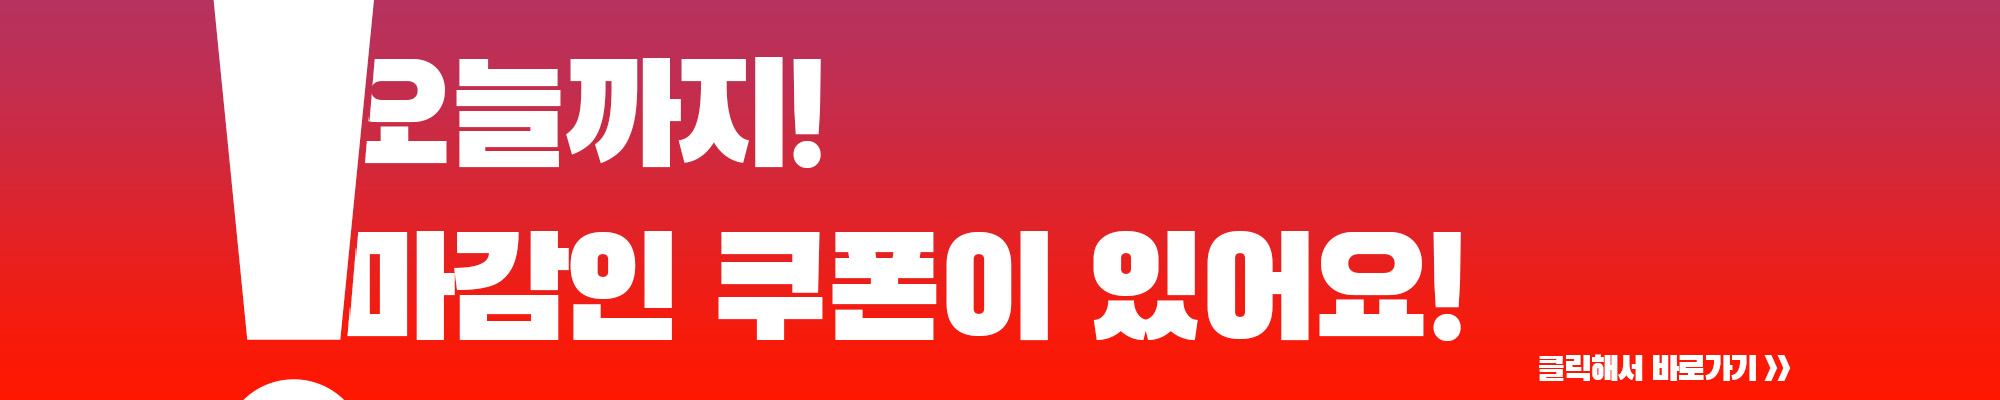
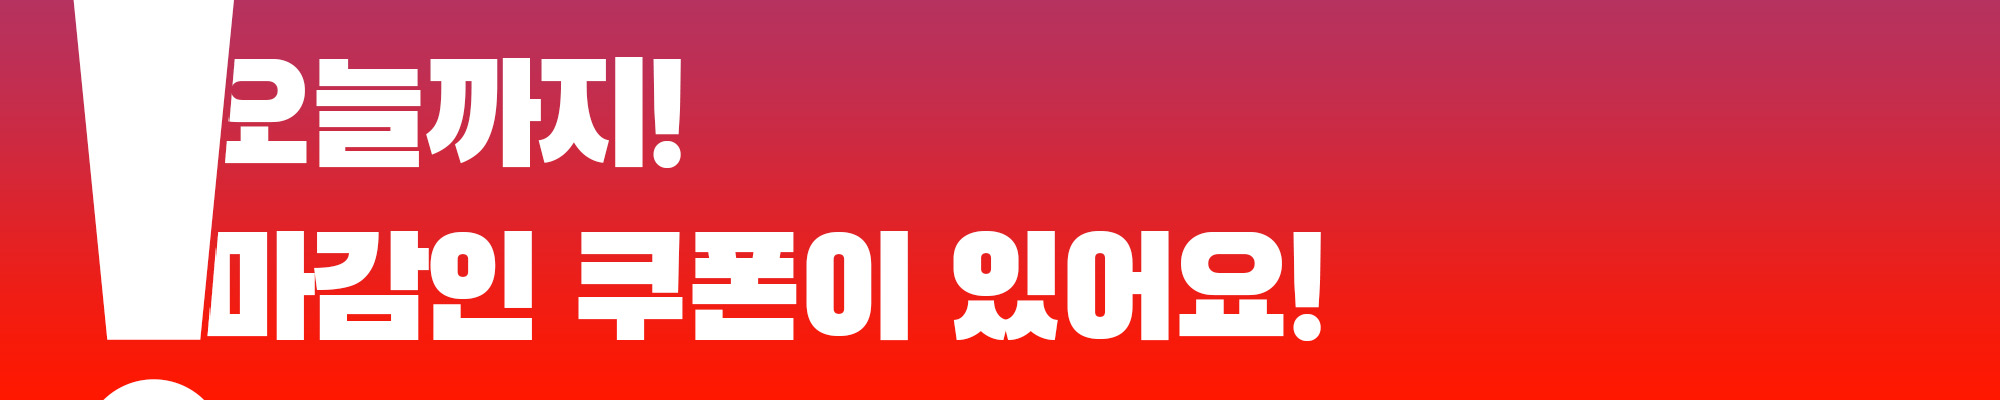
update

Changed region(s): [[0.031, 0.0, 0.744, 0.87], [0.744, 0.87, 0.899, 0.96], [0.031, 0.93, 0.186, 1.0]]

diff --git a/css/main.css b/css/main.css
@@ -1,4 +1,5 @@
 @import url('https://fonts.googleapis.com/css2?family=Noto+Sans+KR:wght@100;300;400;500;700;900&display=swap');
+@import url('https://fonts.googleapis.com/css2?family=Black+Han+Sans&display=swap');
 
 body {
     padding: 0;
@@ -68,6 +69,7 @@ svg:nth-child(1) {
 
 .ad,
 .deadline {
+    display: none;
     overflow: hidden;
     position: relative;
     margin: 20px auto;
@@ -87,6 +89,18 @@ svg:nth-child(1) {
     color: #fff;
     font-size: 15px;
     line-height: 15px;
+    box-sizing: border-box;
+}
+
+.deadline:after {
+    content: "바로가기>>";
+    position: absolute;
+    right: 5%;
+    bottom: 0;
+    color: #fff;
+    font-family: 'Black Han Sans', sans-serif;
+    font-size: 20px;
+    line-height: 20px;
     box-sizing: border-box;
 }
 
@@ -208,18 +222,22 @@ svg:nth-child(1) {
     z-index: 1000;
 }
 
+.coupon div button.today {
+    margin: 15px 0 10px 0;
+}
+
 .coupon div button.today:after {
     content: "오늘마감";
     position: absolute;
     top: 0;
     left: 50%;
-    padding: 1px 2.5%;
-    font-size: 5px;
+    padding: 1px 5%;
+    font-size: 15px;
     font-weight: 300;
     color: #fff;
     background: red;
     border-radius: 10px;
-    line-height: 10px;
+    line-height: 15px;
     transform: translate(-50%, -50%);
 }
 

diff --git a/index.html b/index.html
@@ -25,11 +25,11 @@
   <link rel="stylesheet" href="css/theme.css">
   <script defer src="js/serverdate.js"></script>
   <script defer src="js/hide.js"></script>
-  <script defer src="js/ad.js"></script>
   <script defer src="js/theme.js"></script>
   <script defer src="js/active.js"></script>
   <script defer src="js/sort.js"></script>
   <script defer src="js/install.js"></script>
+  <script defer src="js/ad.js" defer></script>
   <script type="module">
     import 'https://cdn.jsdelivr.net/npm/@pwabuilder/pwaupdate';
     const el = document.createElement('pwa-update');

diff --git a/js/ad.js b/js/ad.js
@@ -14,7 +14,7 @@ document.addEventListener("DOMContentLoaded", function() {
         }
     }
 
-    // Check for the class initially and then every 1000ms (1 second)
+    // Check for the class initially and then every 100ms (0.1 seconds)
     checkForTodayClass();
-    setInterval(checkForTodayClass, 1000);
+    setInterval(checkForTodayClass, 0); // Set interval to 100ms
 });
